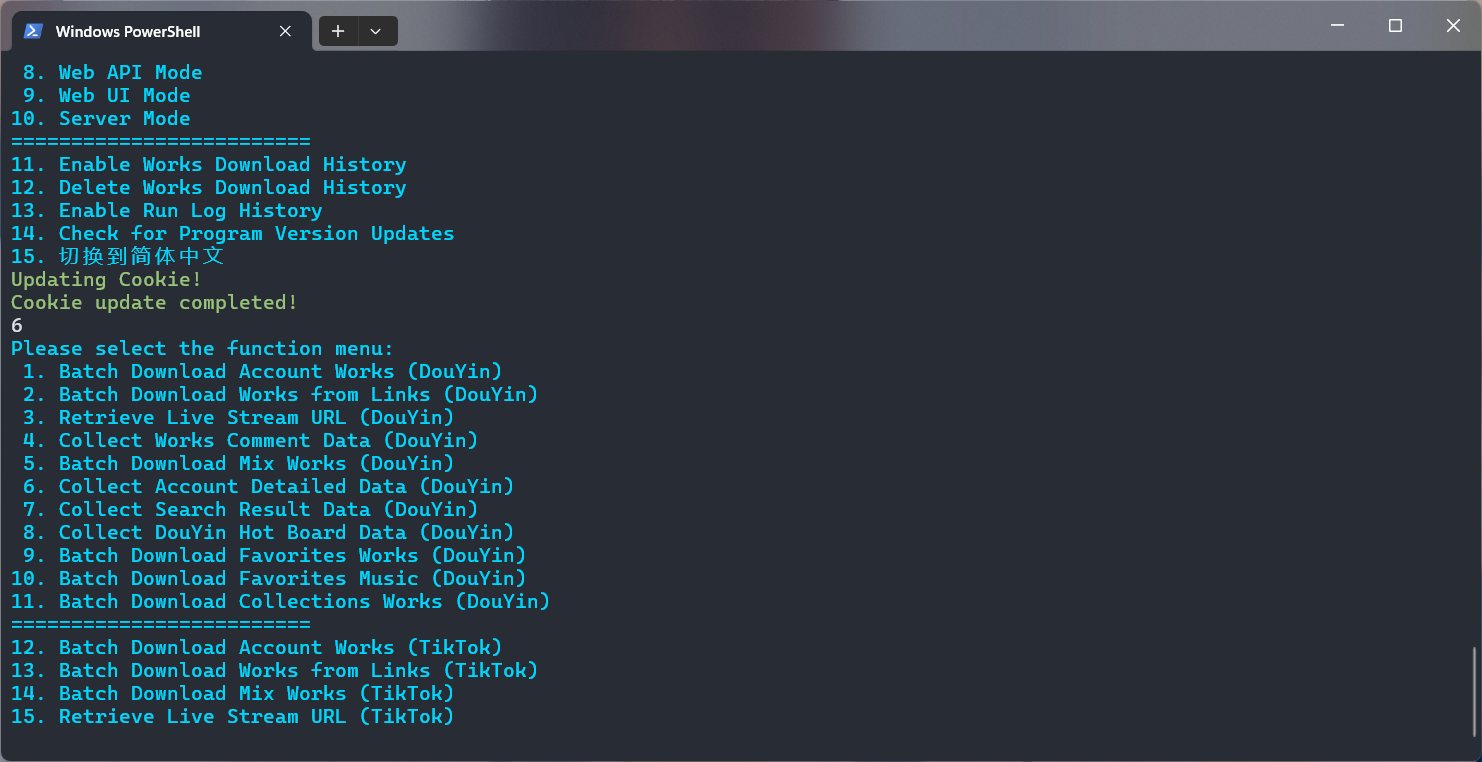
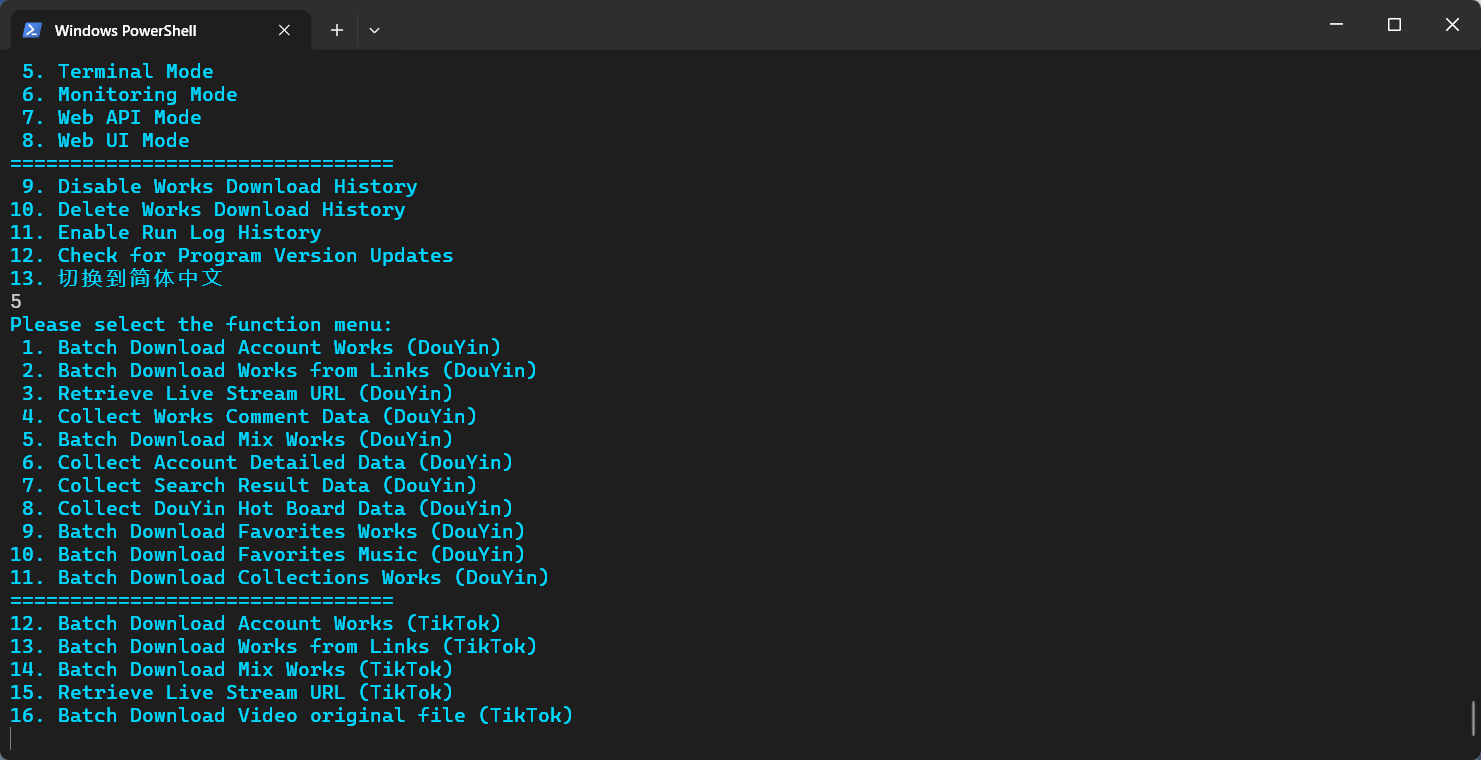
feat: 发布 5.6 版本

Changed region(s): [[0.0, 0.0, 0.3727, 0.9684], [0.0, 0.0, 1.0, 1.0], [0.3417, 0.9382, 0.3727, 0.9684]]

diff --git a/src/application/main_server.py b/src/application/main_server.py
@@ -345,11 +345,8 @@ class APIServer(TikTok):
         async def handle_comment(
             extract: Comment, token: str = Depends(token_dependency)
         ):
-            if data := await self.comment_handle(
-                [
-                    extract.detail_id,
-                ],
-                tiktok=False,
+            if data := await self.comment_handle_single(
+                extract.detail_id,
                 cookie=extract.cookie,
                 proxy=extract.proxy,
                 pages=extract.pages,
@@ -358,7 +355,7 @@ class APIServer(TikTok):
                 count_reply=extract.count_reply,
                 reply=extract.reply,
             ):
-                return self.success_response(extract, data[0])
+                return self.success_response(extract, data)
             return self.failed_response(extract)
 
         @self.server.post(

diff --git a/src/custom/internal.py b/src/custom/internal.py
@@ -4,7 +4,7 @@ from ..translation import _
 PROJECT_ROOT = Path(__file__).resolve().parent.parent.parent
 VERSION_MAJOR = 5
 VERSION_MINOR = 6
-VERSION_BETA = True
+VERSION_BETA = False
 __VERSION__ = f"{VERSION_MAJOR}.{VERSION_MINOR}.{'beta' if VERSION_BETA else 'stable'}"
 PROJECT_NAME = f"TikTokDownloader V{VERSION_MAJOR}.{VERSION_MINOR} {
     'Beta' if VERSION_BETA else 'Stable'

diff --git a/src/tools/choose.py b/src/tools/choose.py
@@ -18,5 +18,5 @@ def choose(
     for i, j in enumerate(options, start=1):
         screen += f"{i: >2d}. {j}\n"
         if separate and i in separate:
-            screen += f"{'=' * 25}\n"
+            screen += f"{'=' * 32}\n"
     return console.input(screen)

diff --git a/README_EN.md b/README_EN.md
@@ -70,7 +70,7 @@
 
 # 💻 Program Screenshot
 
-**Terminal interaction mode：**
+## Terminal interaction mode
 
 <p><b>🎥 Click on the image to watch the demonstration video. It is recommended to manage accounts through configuration files. For more information, please refer to the <a href="https://github.com/JoeanAmier/TikTokDownloader/wiki/Documentation">documentation</a></b></p>
 
@@ -80,7 +80,10 @@
 *****
 [![终端模式截图](docs/终端交互模式截图EN3.png)](https://www.bilibili.com/video/BV18tVDzVEK7/)
 
-**Web UI interaction mode：**
+## Web UI interaction mode
+
+> **The project code has been refactored; the code for this mode has not yet been updated. It will be reopened after
+future development is completed!**
 
 ![WebUI模式截图](docs/WebUI模式截图1.png)
 *****
@@ -88,11 +91,35 @@
 *****
 ![WebUI模式截图](docs/WebUI模式截图3.png)
 
-**Web API mode：**
+## Web API mode
 
-**Open http://127.0.0.1:5555/docs or http://127.0.0.1:5555/redoc to access the automatically generated documentation!**
+![WebAPI模式截图](docs/WebAPI模式截图EN1.png)
+*****
+![WebAPI模式截图](docs/WebAPI模式截图EN2.png)
 
-![WebAPI模式截图](docs/WebAPI模式截图.png)
+> **After starting this mode, Open http://127.0.0.1:5555/docs or http://127.0.0.1:5555/redoc to access the automatically
+generated documentation!**
+
+### API call example code
+
+```python
+from httpx import post
+from rich import print
+
+
+def demo():
+    headers = {"token": ""}
+    data = {
+        "detail_id": "0123456789",
+        "pages": 2,
+    }
+    api = "http://127.0.0.1:5555/douyin/comment"
+    response = post(api, json=data, headers=headers)
+    print(response.json())
+
+
+demo()
+```
 
 # 📈 Project Status
 
@@ -173,25 +200,6 @@
 ## About Cookie
 
 [Click to view Cookie tutorial](https://github.com/JoeanAmier/TikTokDownloader/blob/master/docs/Cookie%E8%8E%B7%E5%8F%96%E6%95%99%E7%A8%8B.md)
-
-|           Program Function            |     Login Required     |
-|:-------------------------------------:|:----------------------:|
-|     Download Account Posts Works      | ⭕ Recommended to Login |
-|     Download Account Liked Works      | ⭕ Recommended to Login |
-|         Download Linked Works         |  ❌ No Login Required   |
-| Obtain Live Stream Address \(DouYin\) |  ❌ No Login Required   |
-| Obtain Live Stream Address \(TikTok\) |   ✔ Login Required    |
-|          Download Live Video          |  ❌ No Login Required   |
-|       Obtain Works Comment Data       |  ❌ No Login Required   |
-|          Download Mix Works           |  ❌ No Login Required   |
-|          Obtain Account Data          |  ❌ No Login Required   |
-|        Collect Search Results         |  ❌ No Login Required   |
-|        Collect Hot Board Data         |  ❌ No Login Required   |
-|       Download Favorites Works        |   ✔ Login Required    |
-|      Download Collections Works       |   ✔ Login Required    |
-|        Obtain Collections Mix         |   ✔ Login Required    |
-|       Obtain Collections Music        |   ✔ Login Required    |
-|       Obtain Collections Series       |   ✔ Login Required    |
 
 > * Cookie only needs to be re-written to the configuration file after it expires, and not every time the program is
     run.

diff --git a/README.md b/README.md
@@ -69,7 +69,7 @@
 
 # 💻 程序截图
 
-**终端交互模式：**
+## 终端交互模式
 
 <p><b>🎥 点击图片观看演示视频，建议通过配置文件管理账号，更多介绍请查阅 <a href="https://github.com/JoeanAmier/TikTokDownloader/wiki/Documentation">文档</a></b></p>
 
@@ -79,7 +79,9 @@
 *****
 [![终端模式截图](docs/终端交互模式截图CN3.png)](https://www.bilibili.com/video/BV18tVDzVEK7/)
 
-**Web UI 交互模式：**
+## Web UI 交互模式
+
+> **项目代码已重构，该模式代码尚未更新，未来开发完成重新开放！**
 
 ![WebUI模式截图](docs/WebUI模式截图1.png)
 *****
@@ -87,11 +89,34 @@
 *****
 ![WebUI模式截图](docs/WebUI模式截图3.png)
 
-**Web API 接口模式：**
+## Web API 接口模式
 
-**访问 `http://127.0.0.1:5555/docs` 或者 `http://127.0.0.1:5555/redoc` 可以查阅自动生成的文档！**
+![WebAPI模式截图](docs/WebAPI模式截图CN1.png)
+*****
+![WebAPI模式截图](docs/WebAPI模式截图CN2.png)
 
-![WebAPI模式截图](docs/WebAPI模式截图.png)
+> **启动该模式后，访问 `http://127.0.0.1:5555/docs` 或者 `http://127.0.0.1:5555/redoc` 可以查阅自动生成的文档！**
+
+### API 调用示例代码
+
+```python
+from httpx import post
+from rich import print
+
+
+def demo():
+    headers = {"token": ""}
+    data = {
+        "detail_id": "0123456789",
+        "pages": 2,
+    }
+    api = "http://127.0.0.1:5555/douyin/comment"
+    response = post(api, json=data, headers=headers)
+    print(response.json())
+
+
+demo()
+```
 
 # 📈 项目状态
 
@@ -169,25 +194,6 @@
 ## 关于 Cookie
 
 [点击查看 Cookie 获取教程](https://github.com/JoeanAmier/TikTokDownloader/blob/master/docs/Cookie%E8%8E%B7%E5%8F%96%E6%95%99%E7%A8%8B.md)
-
-|        程序功能         | 是否需要登录 |
-|:-------------------:|:------:|
-|      下载账号发布作品       | ⭕建议登录  |
-|      下载账号喜欢作品       | ⭕建议登录  |
-|       下载链接作品        | ❌无需登录  |
-|   获取直播推流地址 \(抖音\)   | ❌无需登录  |
-| 获取直播推流地址 \(TikTok\) | ✔需要登录 |
-|       下载直播视频        | ❌无需登录  |
-|      获取作品评论数据       | ❌无需登录  |
-|       下载合集作品        | ❌无需登录  |
-|       获取账号数据        | ❌无需登录  |
-|       采集搜索结果        | ❌无需登录  |
-|       采集热榜数据        | ❌无需登录  |
-|       下载收藏作品        | ✔需要登录 |
-|       下载收藏夹作品       | ✔需要登录 |
-|      获取收藏合集数据       | ✔需要登录 |
-|      获取收藏音乐数据       | ✔需要登录 |
-|      获取收藏短剧数据       | ✔需要登录 |
 
 > * Cookie 仅需在失效后重新写入配置文件，并非每次运行程序都要写入配置文件！
 >

diff --git a/docs/Release_Notes.md b/docs/Release_Notes.md
@@ -3,28 +3,29 @@
 1. 修复 TikTok 平台获取直播推流地址功能报错的问题
 2. 修复账号只有共创作品且均不是作者时报错的问题
 3. 配置文件参数 `original_cover` 变更为 `static_cover`
-4. 重构静态封面下载地址提取逻辑
+4. 修复实况作品与图集作品判断错误的问题
 5. 修复 TikTok 平台批量下载账号作品功能
-6. 修复实况作品与图集作品判断错误的问题
-7. 移除作品采集数据的 `视频分辨率` 字段
-8. 修复数据包含非法字符导致报错的问题
-9. 修复搜索接口关键词编码错误的问题
-10. 优化视频作品分辨率数据提取逻辑
-11. 修复提取下载地址失败时程序异常
+6. 移除作品采集数据的 `视频分辨率` 字段
+7. 修复数据包含非法字符导致报错的问题
+8. 修复搜索接口关键词编码错误的问题
+9. 优化视频作品分辨率数据提取逻辑
+10. 修复提取下载地址失败时程序异常
+11. 重构静态封面下载地址提取逻辑
 12. 优化 `latest` 参数设置规则
 13. 新增批量下载视频原画功能
 14. 新增实况作品处理数量统计
 15. 新增 TikTok 直播下载功能
-16. 优化语言代码获取逻辑
-17. 优化项目代码复用性
-18. 移除服务器部署模式
-19. 重构 Web API 模式
-20. 禁用扫码登录功能
-21. 禁用请求参数更新
-22. 更新项目英语翻译
-23. 移除内置延时机制
-24. 优化网络异常捕获
-25. 优化代码运行逻辑
-26. 支持 `SOCKS` 代理
-27. 优化运行状态提示
-28. 修复其他已知问题
+16. 重新开放 Web API 模式
+17. 优化语言代码获取逻辑
+18. 优化项目代码复用性
+19. 移除服务器部署模式
+20. 重构 Web API 模式
+21. 禁用扫码登录功能
+22. 禁用请求参数更新
+23. 更新项目英语翻译
+24. 移除内置延时机制
+25. 优化网络异常捕获
+26. 优化代码运行逻辑
+27. 支持 `SOCKS` 代理
+28. 优化运行状态提示
+29. 修复其他已知问题

diff --git a/docs/TikTokDownloader文档.md b/docs/TikTokDownloader文档.md
@@ -1093,7 +1093,25 @@ built with gcc 14.2.0 (crosstool-NG 1.27.0.18_7458341)
 <h2>Web API 接口模式</h2>
 <p>启动服务器，提供 API 调用功能；支持局域网远程访问，可以部署至私有服务器或者公开服务器，远程部署建议设置参数验证，防止恶意请求！</p>
 <p>默认禁用局域网访问，如需开启，请修改 <code>src/custom/static.py</code> 文件的 <code>SERVER_HOST</code> 变量。</p>
-<p><strong>访问 <code>http://127.0.0.1:5555/docs</code> 或者 <code>http://127.0.0.1:5555/redoc</code> 可以查阅自动生成的文档！</strong></p>
+<p><strong>启动该模式后，访问 <code>http://127.0.0.1:5555/docs</code> 或者 <code>http://127.0.0.1:5555/redoc</code> 可以查阅自动生成的文档！</strong></p>
+<h3>API 调用示例代码</h3>
+<pre>
+from httpx import post
+from rich import print
+
+
+def demo():
+headers = {"token": ""}
+data = {
+"detail_id": "0123456789",
+"pages": 2,
+}
+api = "http://127.0.0.1:5555/douyin/comment"
+response = post(api, json=data, headers=headers)
+print(response.json())
+
+demo()
+</pre>
 <h2>Web UI 交互模式</h2>
 <p><b>项目代码已重构，该模式代码尚未更新，未来开发完成重新开放！</b></p>
 <h2>启用/禁用作品下载记录</h2>
